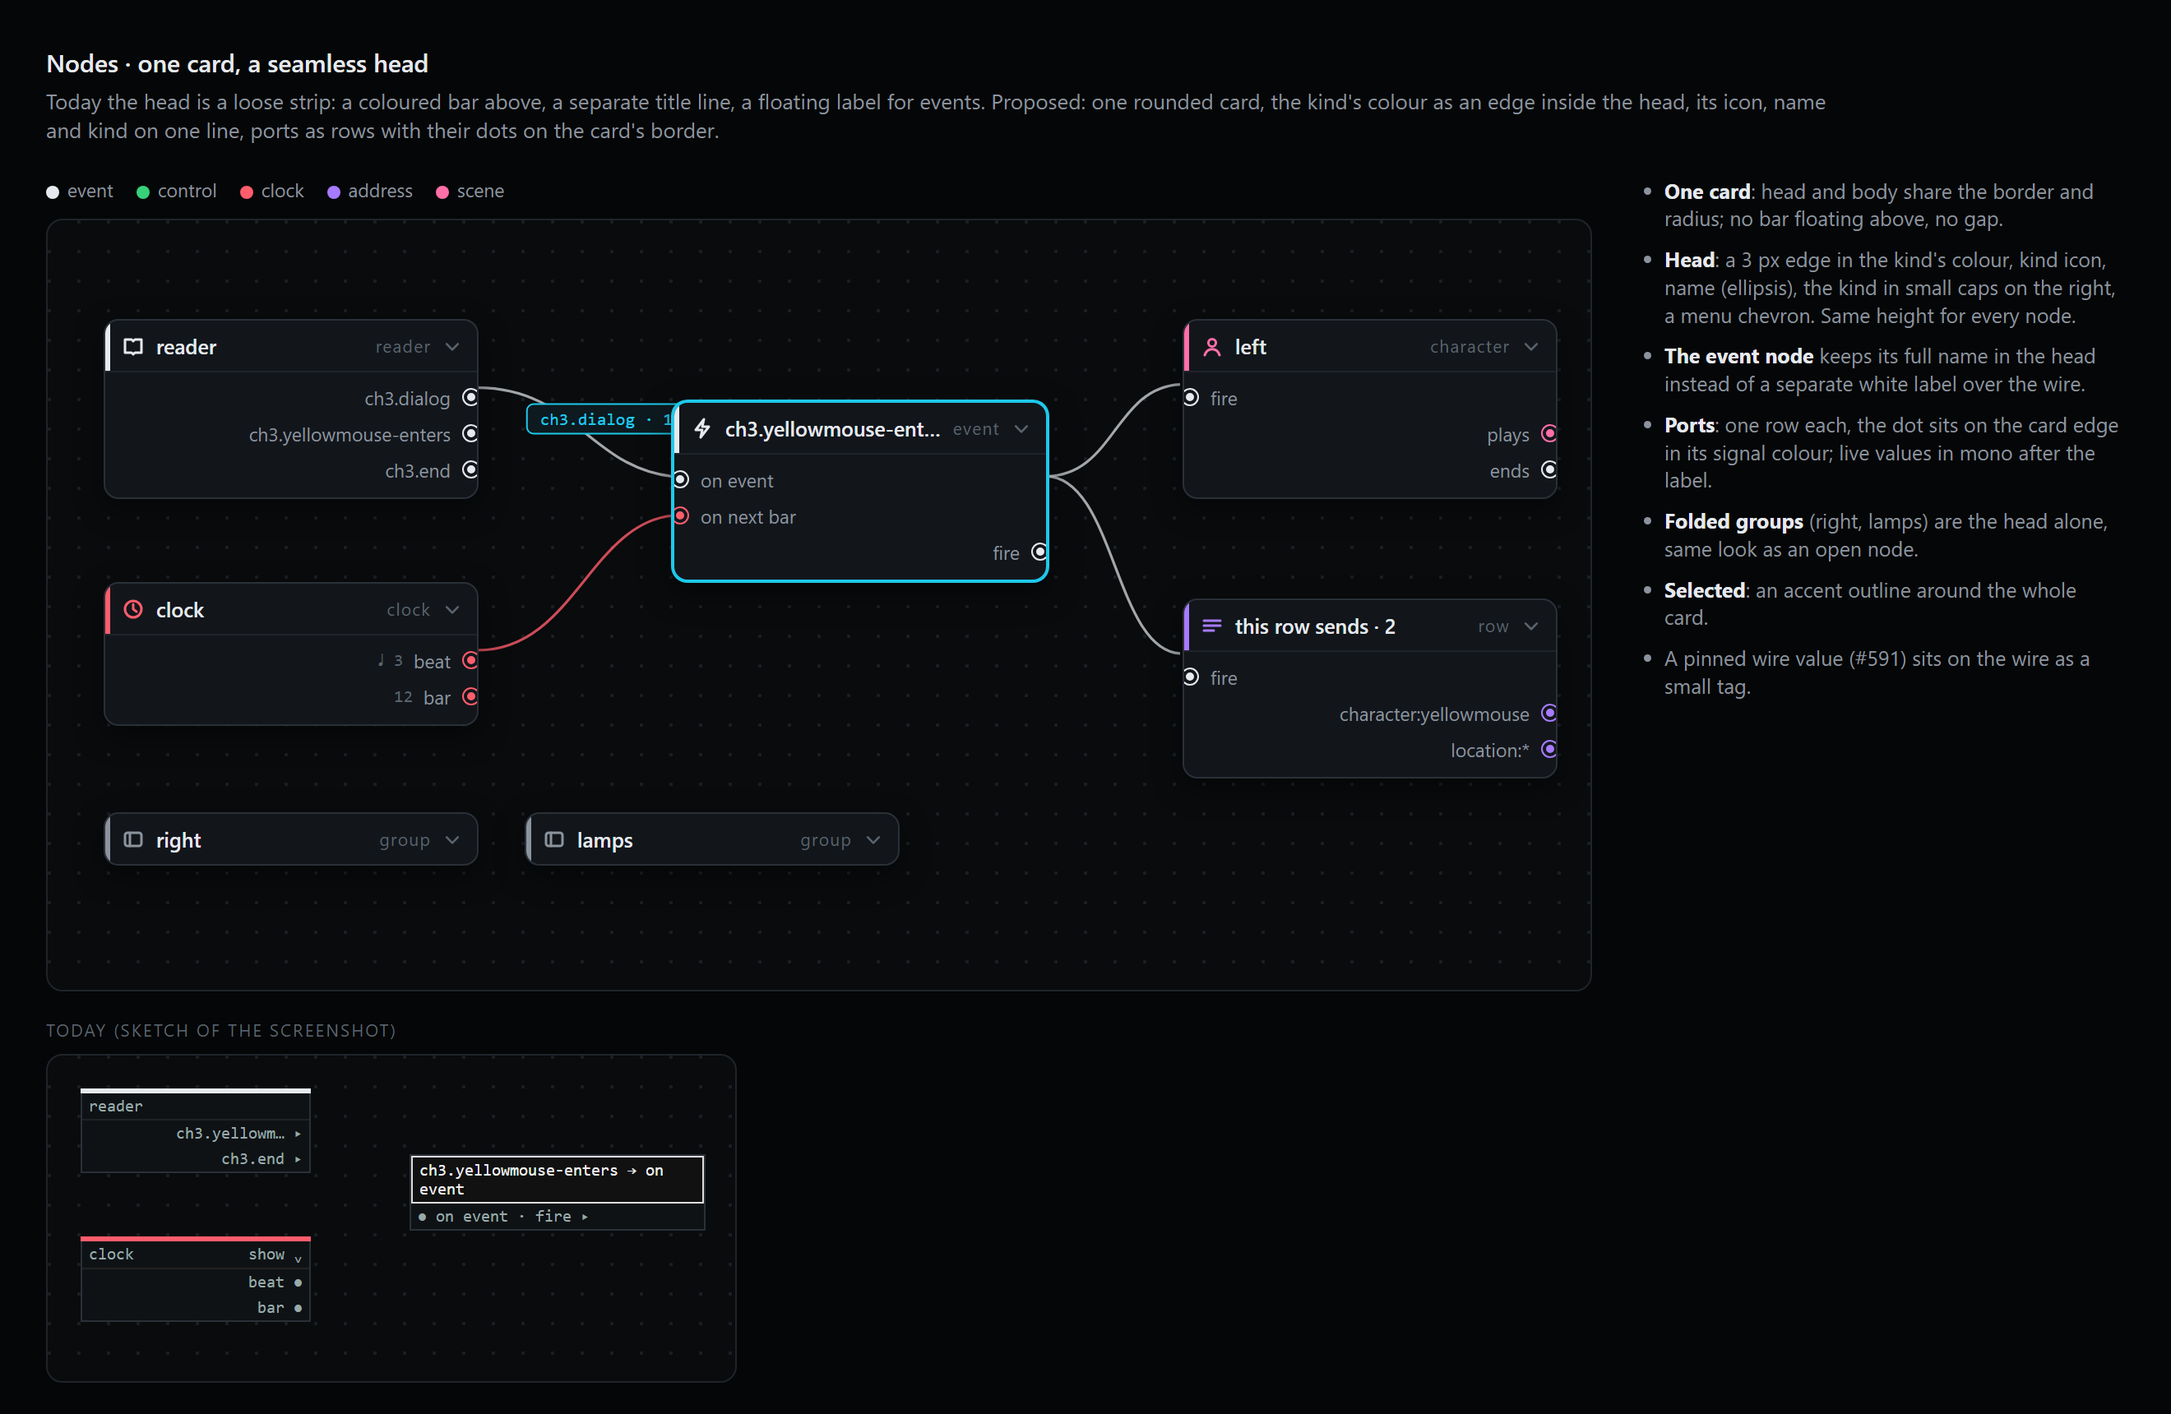
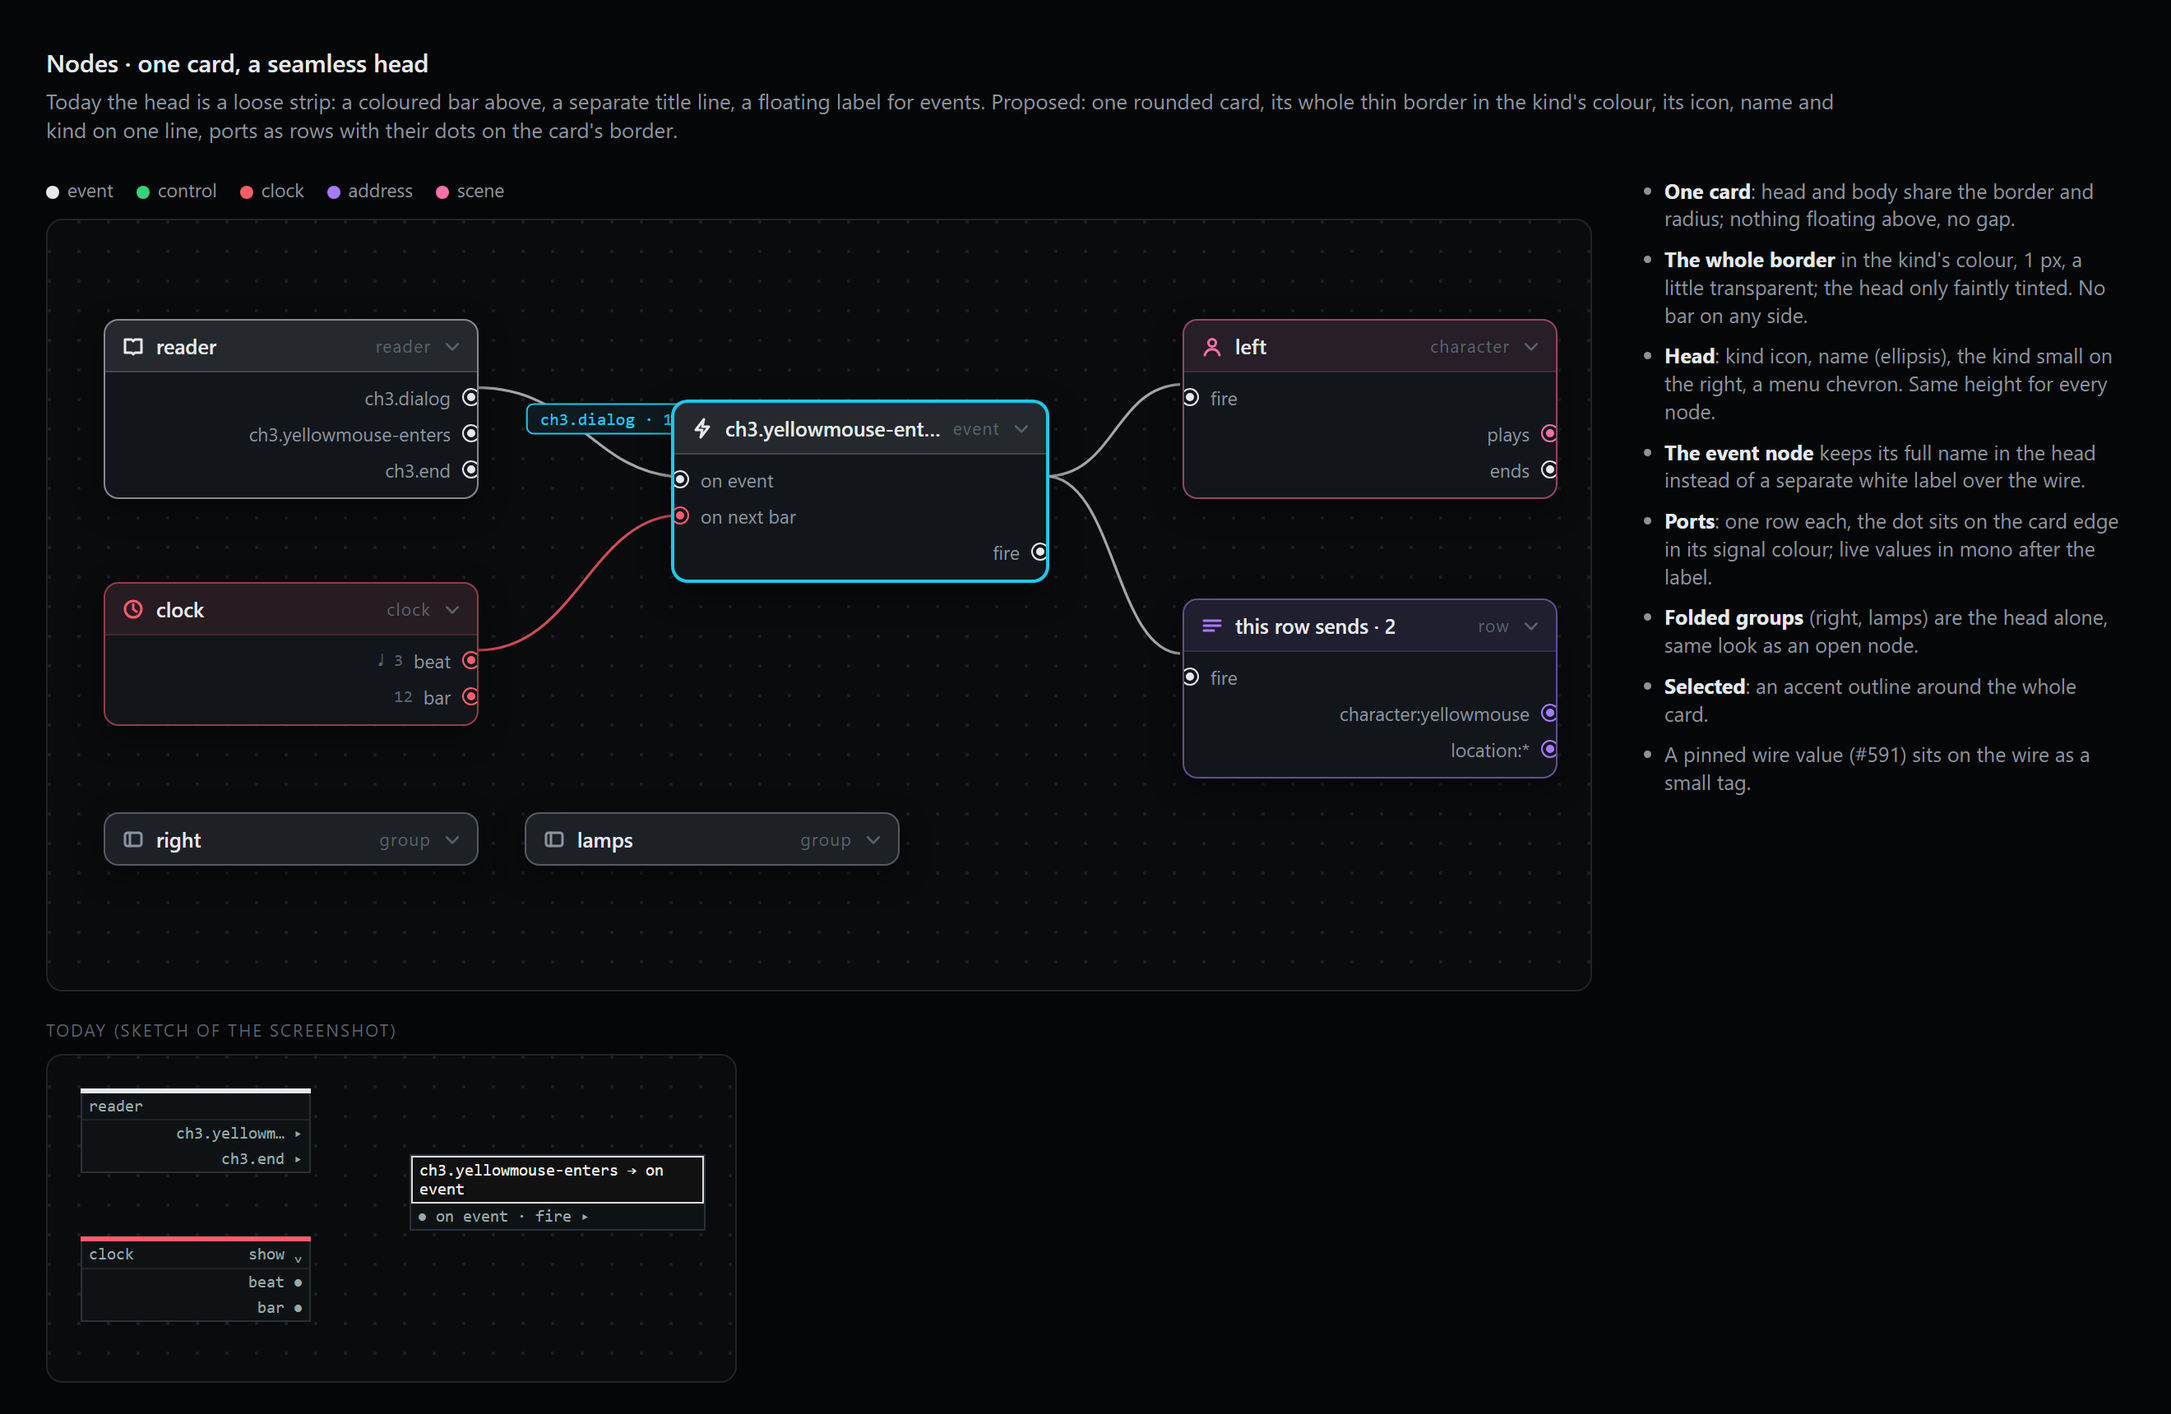
Design drafts round 2: moves in three groups (locomotion, lens, accents), cyclops; nodes with a thin border in the kind's colour all around; cue matrix without grid lines, square minimum, the fire tag shows only what the row's name doesn't. Refs #646 #647 #648

diff --git a/agents/research/designs/2026-11-19/gen-matrix-nodes.py b/agents/research/designs/2026-11-19/gen-matrix-nodes.py
@@ -21,38 +21,38 @@ h1{font-size:15px;font-weight:600;margin:0 0 4px}.lead{color:var(--muted);margin
 .panel{background:var(--panel);border:1px solid var(--line);border-radius:10px;padding:12px;position:relative}
 /* matrix */
 .m{display:grid;gap:0;position:relative}
-.ch{padding:6px 10px 8px;border-bottom:1px solid var(--line);position:relative}
+.ch{padding:6px 10px 8px;position:relative}
 .ch .n{font-weight:600;font-size:13px}.ch .k{color:var(--faint);font-size:10.5px;letter-spacing:.08em;text-transform:uppercase;margin-top:2px}
-.rh{display:flex;gap:8px;align-items:flex-start;padding:10px 10px;border-bottom:1px solid var(--line);position:relative}
+.rh{display:flex;gap:8px;align-items:flex-start;padding:10px 10px;position:relative}
 .rh .num{color:var(--faint);font-family:Consolas,monospace;font-size:11px;padding-top:4px}
 .rh .t{font-weight:600}.rh .tags{display:flex;flex-wrap:wrap;gap:4px;margin-top:5px}
 .pbtn{width:24px;height:24px;border-radius:50%;border:1px solid var(--line2);display:flex;align-items:center;justify-content:center;color:var(--muted);flex:none}
-.c{padding:6px;border-bottom:1px solid var(--line);border-left:1px solid var(--line);position:relative}
+.c{padding:4px;position:relative}
 .card{height:100%;background:var(--cell);border:1px solid var(--line2);border-radius:8px;padding:7px 9px;display:flex;flex-direction:column;gap:4px}
 .card .top{display:flex;align-items:center;gap:7px}.card .top .p{color:var(--muted)}.card .ttl{font-size:12.5px;white-space:nowrap;overflow:hidden;text-overflow:ellipsis}
 .card.live{border-color:var(--accent);box-shadow:inset 0 0 0 1px var(--adim)}.card.live .p{color:var(--accent)}
 .status{display:flex;align-items:center;gap:5px;font-size:10.5px;color:var(--warn);letter-spacing:.04em}.status:before{content:'';width:6px;height:6px;border-radius:50%;background:var(--warn)}
 .carry{color:var(--faint);display:flex;align-items:center;justify-content:center;height:100%;font-size:12px}
 .tag{display:inline-flex;align-items:center;gap:4px;padding:1px 7px 1px 5px;border-radius:5px;background:rgba(255,255,255,.04);border:1px solid var(--line2);color:var(--muted);font-size:11px;max-width:150px;white-space:nowrap;overflow:hidden;text-overflow:ellipsis}
-.tag svg{flex:none}.tag.ev svg{color:#ffd166}.tag.scn svg{color:var(--scn)}
+.tag svg{flex:none}.tag.dash{border-style:dashed}.ticks{display:inline-block;width:9px;height:9px;margin-left:4px;background:linear-gradient(currentColor,currentColor) 0 100%/1.5px 9px no-repeat,linear-gradient(currentColor,currentColor) 3px 100%/1.5px 4px no-repeat,linear-gradient(currentColor,currentColor) 6px 100%/1.5px 4px no-repeat}.tag.ev svg{color:#ffd166}.tag.scn svg{color:var(--scn)}
 .colh{position:absolute;top:4px;bottom:-9999px;right:-3px;width:6px;cursor:col-resize}
-.colh:after{content:'';position:absolute;left:2px;top:0;height:30px;width:2px;border-radius:1px;background:var(--line2)}
+.colh:after{content:'';position:absolute;left:2px;top:0;height:30px;width:2px;border-radius:1px;background:transparent}
 .colh.hot:after{background:var(--accent);height:470px}
 .rowh{position:absolute;left:0;right:-9999px;bottom:-3px;height:6px;cursor:row-resize}
 .rowh.hot{background:linear-gradient(var(--accent),var(--accent)) center/100% 2px no-repeat}
 .size{position:absolute;background:var(--accent);color:#001318;font-size:10.5px;font-weight:600;padding:2px 6px;border-radius:4px}
-.before{opacity:.95}
+.before{opacity:.95}.before .c{border-left:1px solid var(--line);border-bottom:1px solid var(--line);padding:6px}.before .rh,.before .ch{border-bottom:1px solid var(--line)}
 .lab{color:var(--faint);font-size:10.5px;letter-spacing:.1em;text-transform:uppercase;margin:0 0 8px}
 .uglypill{display:inline-flex;align-items:center;gap:3px;background:#fff;color:#111;border-radius:10px;padding:1px 8px;font-family:Consolas,monospace;font-size:11px}
 /* nodes */
 .canvas{position:relative;width:940px;height:470px;background:radial-gradient(circle at 1px 1px,#1a1f25 1px,transparent 1.2px) 0 0/18px 18px,#090b0d;border:1px solid var(--line);border-radius:10px;overflow:hidden}
-.node{position:absolute;width:228px;background:#12161b;border:1px solid var(--line2);border-radius:9px;overflow:hidden;box-shadow:0 6px 18px rgba(0,0,0,.45)}
+.node{position:absolute;width:228px;background:#12161b;border:1px solid color-mix(in srgb,var(--kc) 55%,transparent);border-radius:9px;overflow:hidden;box-shadow:0 6px 18px rgba(0,0,0,.45)}
 .node .hd{display:flex;align-items:center;gap:7px;padding:7px 9px 7px 10px;position:relative}
-.node .hd:before{content:'';position:absolute;left:0;top:0;bottom:0;width:3px;background:var(--kc)}
+.node .hd{background:color-mix(in srgb,var(--kc) 9%,transparent)}
 .node .hd .ki{color:var(--kc);display:flex}.node .hd .nm{font-weight:600;font-size:12.5px;flex:1;white-space:nowrap;overflow:hidden;text-overflow:ellipsis}
 .node .hd .kd{color:var(--faint);font-size:10.5px;letter-spacing:.06em}
 .node .hd .mn{color:var(--faint);display:flex}
-.node .bd{border-top:1px solid var(--line);padding:4px 0 6px}
+.node .bd{border-top:1px solid color-mix(in srgb,var(--kc) 22%,transparent);padding:4px 0 6px}
 .port{display:flex;align-items:center;height:22px;font-size:11.5px;color:var(--muted);padding:0 16px;position:relative}
 .port.in{justify-content:flex-start}.port.out{justify-content:flex-end}
 .port .dot{position:absolute;width:9px;height:9px;border-radius:50%;background:var(--pc);border:2px solid #12161b;box-shadow:0 0 0 1px var(--pc)}
@@ -76,9 +76,9 @@ def matrix(widths, rows, hot_col=None, hot_row=None, ugly=False):
     for ri, (num, title, cells, h) in enumerate(rows):
         tags = ''
         if title == 'dialog':
-            tags = f'<span class="uglypill">⚡ch3.dial… |</span>' if ugly else f'<span class="tag ev">{EVENT}ch3 · dialog</span>'
+            tags = f'<span class="uglypill">⚡ch3.dial… |</span>' if ugly else f'<span class="tag ev">{EVENT}ch3<span class="ticks"></span></span>'
         if title == 'yellowmouse enters':
-            tags = f'<span class="uglypill">⚡ch3.yell… |</span>' if ugly else f'<span class="tag ev">{EVENT}ch3 · yellowmouse</span><span class="tag scn">{SCENE}nave</span>'
+            tags = f'<span class="uglypill">⚡ch3.yell… |</span>' if ugly else f'<span class="tag ev dash">{EVENT}ch3 · yellowmouse-enters</span>'
         s += (f'<div class="rh"><span class="pbtn">{PLAY}</span><div style="min-width:0"><div><span class="num">0{num}</span> <span class="t">{title}</span></div>'
               f'<div class="tags">{tags}</div></div><span class="rowh{" hot" if hot_row==ri else ""}"></span></div>')
         for c in cells:
@@ -103,14 +103,14 @@ board4 = f"""<!doctype html><html><head><meta charset="utf-8"><style>{CSS}</styl
 <div class="wrap"><div>
 <div class="lab">Today</div>
 <div class="panel before" style="margin-bottom:18px">{matrix([200,150,150,150,150], ROWS([44,50,50,44]), ugly=True)}</div>
-<div class="lab">Proposed · column "right" being dragged wider</div>
+<div class="lab">Proposed · no grid lines · column "right" being dragged wider</div>
 <div class="panel">{matrix([230,170,230,150,150], ROWS([56,66,72,48]), hot_col=1)}<span class="size" style="left:560px;top:-10px">right · 230 px</span></div>
 </div>
 <div class="note"><ul>
-<li><b>Columns</b>: drag the right edge of a column head (the handle lights up the whole line); double-click fits the widest cell. The first column (rows) resizes the same way.</li>
+<li><b>No grid lines</b>: cells are cards on the panel; the edges show only on hover, as a handle. The minimum is a square cell.</li><li><b>Columns</b>: drag the right edge of a column head (the handle lights up the whole line); double-click fits the widest cell. The first column (rows) resizes the same way.</li>
 <li><b>Rows</b>: drag a row's bottom edge; double-click fits. A taller row shows the full title and all its tags.</li>
 <li>Sizes are saved with the show's view, not as show data.</li>
-<li><b>Tags</b> instead of the white pills: transparent, a thin border, a coloured kind icon (⚡ event, scene, address), the text muted, ellipsis at the column width.</li>
+<li><b>The row's fire tag shows only what the name doesn't</b>: row "dialog" fires on ch3's dialog event, so the tag says ⚡ ch3 plus the moment ticks (bar / phrase). The full event shows only when it differs from the name (row 03, a dashed suggestion that waits for GO).</li><li><b>Tags</b> instead of the white pills: transparent, a thin border, a coloured kind icon (⚡ event, scene, address), the text muted, ellipsis at the column width.</li>
 <li><b>Cells</b> as cards: play, title, and a status line (e.g. "nothing set") with a dot instead of the orange caps.</li>
 <li>"↑" becomes "↑ carries on" in the faint colour.</li></ul></div></div></body></html>"""
 
@@ -156,15 +156,15 @@ old = ('<div class="canvas" style="width:420px;height:200px">'
 
 board5 = f"""<!doctype html><html><head><meta charset="utf-8"><style>{CSS}</style></head><body>
 <h1>Nodes · one card, a seamless head</h1>
-<p class="lead">Today the head is a loose strip: a coloured bar above, a separate title line, a floating label for events. Proposed: one rounded card, the kind's colour as an edge inside the head, its icon, name and kind on one line, ports as rows with their dots on the card's border.</p>
+<p class="lead">Today the head is a loose strip: a coloured bar above, a separate title line, a floating label for events. Proposed: one rounded card, its whole thin border in the kind's colour, its icon, name and kind on one line, ports as rows with their dots on the card's border.</p>
 <div class="wrap"><div>
 <div class="legend"><span><i style="background:#e6e9ee"></i>event</span><span><i style="background:#38d17a"></i>control</span><span><i style="background:#ff5d6c"></i>clock</span><span><i style="background:#a77bff"></i>address</span><span><i style="background:#ff6fa8"></i>scene</span></div>
 {canvas}
 <div class="lab" style="margin-top:16px">Today (sketch of the screenshot)</div>{old}
 </div>
 <div class="note"><ul>
-<li><b>One card</b>: head and body share the border and radius; no bar floating above, no gap.</li>
-<li><b>Head</b>: a 3 px edge in the kind's colour, kind icon, name (ellipsis), the kind in small caps on the right, a menu chevron. Same height for every node.</li>
+<li><b>One card</b>: head and body share the border and radius; nothing floating above, no gap.</li>
+<li><b>The whole border</b> in the kind's colour, 1 px, a little transparent; the head only faintly tinted. No bar on any side.</li><li><b>Head</b>: kind icon, name (ellipsis), the kind small on the right, a menu chevron. Same height for every node.</li>
 <li><b>The event node</b> keeps its full name in the head instead of a separate white label over the wire.</li>
 <li><b>Ports</b>: one row each, the dot sits on the card edge in its signal colour; live values in mono after the label.</li>
 <li><b>Folded groups</b> (right, lamps) are the head alone, same look as an open node.</li>

diff --git a/agents/research/designs/2026-11-19/gen-camera.py b/agents/research/designs/2026-11-19/gen-camera.py
@@ -50,7 +50,7 @@ def cone(deg):
     return svg(f'<path d="M4 16L34 {16-h:.1f}M4 16L34 {16+h:.1f}"/><circle cx="4" cy="16" r="2"/>', 38, 32)
 
 # ── heights (eye line on a ground) ──
-HEIGHTS = [('frog', .05, 'frog'), ('cat', .25, 'cat'), ('kid', 1.1, 'kid'), ('adult', 1.6, 'adult'), ('giant', 3.0, 'giant'), ('giraffe', 5.0, 'giraffe'), ('bird', 12, 'bird')]
+HEIGHTS = [('frog', .05, 'frog'), ('cat', .25, 'cat'), ('kid', 1.1, 'kid'), ('adult', 1.6, 'adult'), ('cyclops', 3.0, 'cyclops'), ('giraffe', 5.0, 'giraffe'), ('bird', 12, 'bird')]
 def height_icon(name):
     g = 'M3 27h26'
     bodies = {
@@ -58,7 +58,7 @@ def height_icon(name):
      'cat':     '<path d="M8 27v-6l3-4 1 3h6l1-3 3 4v6"/><path d="M22 23c3 0 4-3 4-6"/>',
      'kid':     '<circle cx="16" cy="13" r="2.5"/><path d="M16 16v6M12 18h8M13.5 27l2.5-5 2.5 5"/>',
      'adult':   '<circle cx="16" cy="7" r="2.5"/><path d="M16 10v9M11 13h10M13 27l3-8 3 8"/>',
-     'giant':   '<circle cx="16" cy="4.5" r="2.2"/><path d="M16 7v12M9 11h14M12 27l4-8 4 8"/><path d="M5 27V15"/>',
+     'cyclops': '<circle cx="16" cy="5" r="3.2"/><circle cx="16" cy="5" r="1" fill="currentColor"/><path d="M16 8.5v10M9 12h14M12 27l4-8.5 4 8.5"/>',
      'giraffe': '<path d="M10 27v-8h10v8M13 19L20 5M19 3.5l3 1.5-1.5 2"/><path d="M14 19v8"/>',
      'bird':    '<path d="M7 9c3-3 6-3 9 0 3-3 6-3 9 0"/><path d="M12 27h8" stroke-dasharray="1 2"/>',
     }
@@ -137,9 +137,15 @@ def height_body():
     tiles = ''.join(f'<div class="tile{" on" if n=="adult" else ""}">{height_icon(n)}<span class="n">{lab}</span></div>' for n, _, lab in HEIGHTS)
     return f'<div class="lbl">Eye height</div><div class="grid g7">{tiles}</div><div class="lbl">Exact</div><div class="val"><span>1.600 m</span><span class="u">drag to scrub</span></div>'
 
+GROUPS = [('Locomotion · the camera travels', ['glide','in','fly through','crane down','crane up','spiral','push in','pull out','orbit','truck','follow']),
+          ('Lens · the optics change', ['zoom','dolly zoom','rack focus']),
+          ('Accents', ['cut','tilt','whip pan','shake'])]
 def move_body():
-    tiles = ''.join(f'<div class="tile{" on" if n=="glide" else ""}">{svg(p)}<span class="n">{n}</span></div>' for n, p in MOVES)
-    return (f'<div class="lbl">Move · pick one</div><div class="grid g6">{tiles}</div>'
+    M = dict(MOVES); out = ''
+    for title, names in GROUPS:
+        tiles = ''.join(f'<div class="tile{" on" if n=="glide" else ""}">{svg(M[n])}<span class="n">{n}</span></div>' for n in names)
+        out += f'<div class="lbl">{title}</div><div class="grid g6">{tiles}</div>'
+    return (out +
             '<div class="lbl">Glide settings</div>'
             '<div class="row"><div class="val"><span>ends on</span><span class="u">shot2 ▾</span></div><div class="val"><span>2.000</span><span class="u">bars</span></div></div>'
             '<div class="lbl">Starts</div><div class="seg" style="display:inline-flex"><span class="on">now</span><span>on the bar line</span></div>'
@@ -172,13 +178,13 @@ B = {
    'Focal lengths as cones (the angle you get), eye heights as figures on a ground line. The exact value stays one scrub away.',
    panel({'lens': lens_body(), 'height': height_body()}),
    '<ul><li><b>Cones</b> show the field of view of each focal length, wide 17 to narrow 150.</li>'
-   '<li><b>Height figures</b>: frog, cat, kid, adult, giant, giraffe, bird – the eye line you get.</li>'
+   '<li><b>Height figures</b>: frog, cat, kid, adult, cyclops, giraffe, bird – the eye line you get.</li>'
    '<li>The <b>exact field</b> under each grid replaces the "mm…" / "1.600 m…" chip.</li>'
    '<li>Several sections may be open at once; the panel scrolls.</li></ul>'),
  'board3': board('Camera tools · 3 · move and phones open',
    'Every move is an icon tile; only the picked move\'s settings show under the grid. Phones keep the one condition control.',
    panel({'shots': shots_body(), 'move': move_body(), 'phones': phones_body()}),
-   '<ul><li><b>18 move tiles</b> in a 6-wide grid (cut, glide, in, fly through, crane down / up, spiral, push in / pull out, orbit, truck, tilt, zoom, dolly zoom, whip pan, follow, shake, rack focus).</li>'
+   '<ul><li><b>Moves in three groups</b>: Locomotion (the camera travels: glide, in, fly through, crane, spiral, push / pull, orbit, truck, follow), Lens (zoom, dolly zoom, rack focus), Accents (cut, tilt, whip pan, shake).</li>'
    '<li><b>Shots</b> get a small thumbnail of their view.</li>'
    '<li><b>Phones</b>: who and device as chips, the QR line with the shot\'s address.</li>'
    '<li>Icons are line art at 1.5 px, the accent colour only on the picked one.</li></ul>'),
